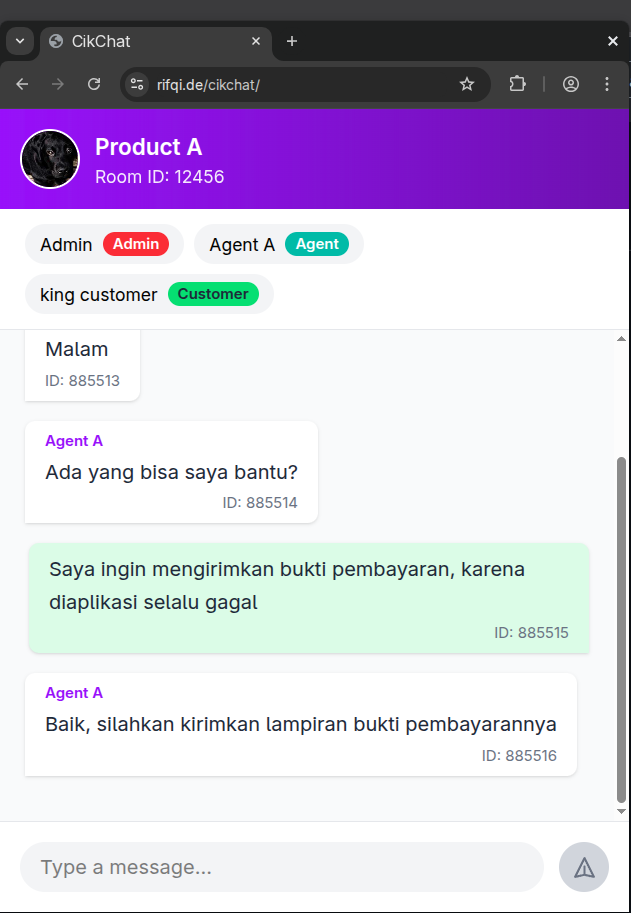
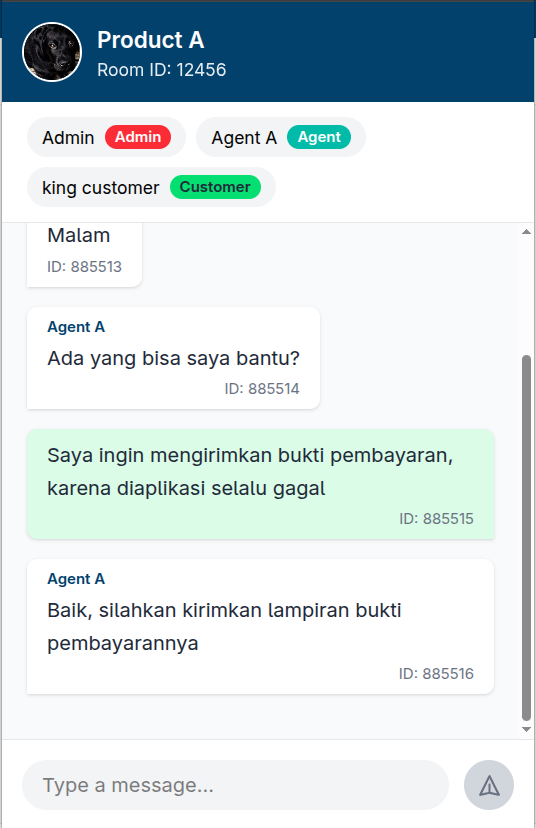
chore: ui improvement

diff --git a/src/components/ChatHeader.vue b/src/components/ChatHeader.vue
@@ -1,5 +1,5 @@
 <template>
-  <div class="bg-gradient-to-r from-purple-600 to-purple-800 text-white p-4 flex items-center gap-3 shadow-lg">
+  <div class="bg-[#01416c] text-white p-4 flex items-center gap-3 shadow-lg">
     <img :src="room.image_url" :alt="room.name" class="w-12 h-12 rounded-full border-2 border-white object-cover">
     <div class="flex-1">
       <h2 class="text-lg font-semibold">{{ room.name }}</h2>

diff --git a/src/components/ChatInput.vue b/src/components/ChatInput.vue
@@ -16,7 +16,7 @@
       :class="[
         'w-10 h-10 rounded-full flex items-center justify-center transition',
         messageText.trim() 
-          ? 'bg-purple-600 hover:bg-purple-700 text-white' 
+          ? 'bg-[#01416c] hover:bg-[#026aa7] text-white' 
           : 'bg-gray-300 text-gray-500 cursor-not-allowed'
       ]"
     >

diff --git a/src/components/MessageBubble.vue b/src/components/MessageBubble.vue
@@ -6,7 +6,7 @@
         ? 'bg-green-100 rounded-br-none' 
         : 'bg-white rounded-bl-none'
     ]">
-      <div v-if="!isOwn" class="text-xs font-semibold text-purple-600 mb-1">
+  <div v-if="!isOwn" class="text-xs font-semibold text-[#01416c] mb-1">
         {{ senderName }}
       </div>
 
